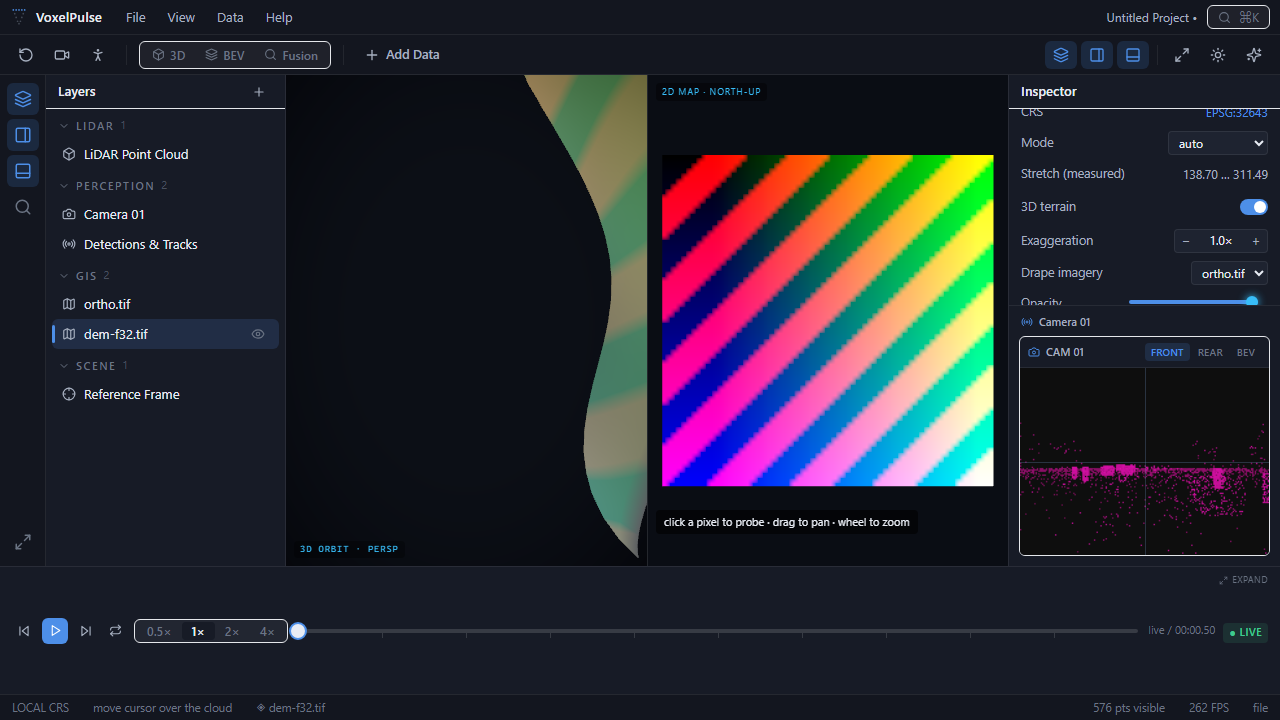
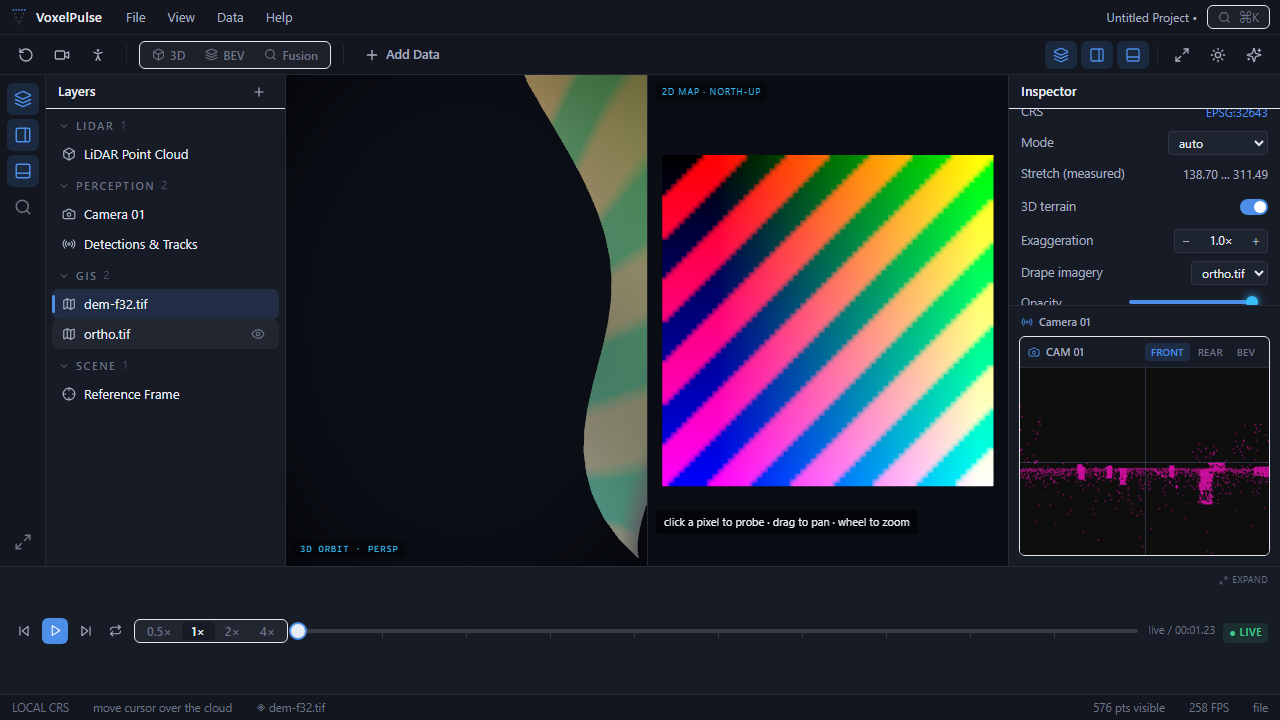
docs(p5): user guide, ADR-0009 addendum, README capability matrix, Phase 5 screenshots
- docs/gis/raster-terrain.md: open GeoTIFF, COG by URL, DEM as terrain,
  orthophoto, terrain+LiDAR, styling, .vxp v4, honest limitations
- ADR-0009 implementation addendum: fromSource-everywhere, verified-COG
  ghost check, measured overviews, pixel-space affine scheduling, +1 seam
  decode, per-vertex drape, metre-spacing hillshade, shared LRU
- README: GeoTIFF/COG + COPC rows now reflect shipped capabilities
- docs/screenshots: the 7 mandatory Phase 5 states at 1280×720
- capture-phase5.mjs + perf-phase5.mjs evidence scripts
- verification: tsc clean · 227/227 unit · build ok · Playwright 35/35
  (workers=1; parallel runs flake one timing test per run on this iGPU —
  each passes in isolation, evidence in the session report)

Changed region(s): [[0.0312, 0.3972, 0.2188, 0.4889], [0.7812, 0.6417, 1.0, 0.7333]]

diff --git a/docs/gis/raster-terrain.md b/docs/gis/raster-terrain.md
@@ -1,0 +1,98 @@
+# GIS rasters & terrain — user guide
+
+Phase 5 adds GeoTIFF/COG rasters, a 2D Map workspace, real DEM terrain,
+scientific hillshade, orthophoto draping and LiDAR fusion to VoxelPulse.
+All geospatial display goes through the Phase 3 CRS pipeline (project CRS,
+render origin, honest UNKNOWN handling).
+
+## Open a GeoTIFF
+
+**Add Data** (or drag-and-drop) accepts `.tif/.tiff` alongside the point
+cloud formats. VoxelPulse detects the format by content (TIFF magic — the
+extension is only a hint), reads metadata through geotiff.js over VoxelPulse's
+own byte-range source, and attaches a streaming raster runtime:
+
+- the **Map workspace** focuses automatically on a fresh import;
+- the raster streams tile-by-tile through the tile scheduler (viewport
+  culling, overview selection by measured texel size, bounded decode cache);
+- the Inspector's **Raster** section shows dimensions, bands, sample type,
+  nodata, compression, layout, overviews, CRS and the measured stretch;
+- the pixel probe reports **world coordinates + raw pixel values** (click in
+  the map; drag pans, wheel zooms — zoom is cursor-anchored).
+
+Supported: classic TIFF + BigTIFF, LE/BE, LZW/Deflate/JPEG(decode)/Packbits/
+Zstd (geotiff.js decoders), strip and tiled layouts, overviews measured from
+the real IFDs. Whole-file decode never happens.
+
+## Open a COG by URL
+
+**File → Open URL…** with an `http(s)` URL to a GeoTIFF/COG. Every byte —
+header, IFDs, tiles — arrives as an HTTP **Range request** through VoxelPulse's
+DataSource accounting (geotiff's own HTTP client is never used). A raster is
+labeled **COG (verified)** in the Inspector only when the file carries the
+GDAL ghost-area signature + tiled layout + overview IFDs; tiled-but-not-COG
+files honestly report "tiled TIFF".
+
+## View a DEM as 3D terrain
+
+Select the raster layer → Inspector → **3D terrain** toggle. The DEM streams
+into the perspective scene as tiled meshes in the SAME render space as point
+clouds (Z-up, shared render origin, CRS-transformed):
+
+- vertices sit at pixel-corner positions through the full affine (rotated
+  rasters stay rotated); neighboring tiles share exact corner samples (the
+  runtime decodes one extra column/row), so there are no seams;
+- nodata becomes a hole — triangles are skipped, never zero-filled;
+- **Exaggeration** scales the mesh visually only — raw elevations are
+  untouched, and the probe/terrain sampler always reads true values.
+
+## Apply an orthophoto
+
+With a terrain-enabled raster selected: Inspector → **Drape imagery** → pick
+another raster layer. Imagery drapes per-vertex through each raster's own
+affine; a different imagery CRS transforms per-vertex through the project's
+proj4 pipeline. If the imagery cannot be placed honestly (UNKNOWN CRS,
+outside the extent, tiles not resident yet) you get a console warning and
+base shading — never guessed offsets.
+
+## Combine terrain and LiDAR
+
+Import a georeferenced point cloud (LAS/COPC) together with a DEM: both
+co-render in the 3D scene in project coordinates. VoxelPulse proves the
+alignment numerically — the Phase 5 acceptance test loads a LiDAR block that
+flies 2.0 m above the DEM surface and asserts the terrain sampler reads the
+DEM formula value exactly at the points' (E, N) (see
+`tests/fusion.e2e.ts`).
+
+## Styling
+
+Inspector → **Mode**: `auto` (RGB for ≥3 bands, grayscale otherwise),
+`rgb` (with band remapping), `grayscale`, `pseudocolor` (perceptual ramp),
+`hillshade` (sun **azimuth**/`elevation` steppers; gradients from real
+elevation data with CRS-aware metre spacing — degree CRSs are converted at
+the raster's mean latitude). Display stretch uses **measured** dataset
+statistics from the file's coarsest overview — the Inspector shows the real
+numbers. Raw pixel values are never quantized into the analysis path; only
+the display buffer is packed.
+
+## Projects (.vxp v4)
+
+Save/open persists raster descriptors, source references, display style
+(mode, sun, band mapping), terrain role, drape reference, exaggeration, map
+layout and project CRS — references only, never tiles or meshes. Local files
+re-open via the relink flow; remote rasters re-open through source-backed
+streaming. v1–v3 projects migrate losslessly.
+
+## Known limitations (honest)
+
+- Elevation units are taken as the raster's horizontal CRS units (metre
+  CRSs → metre elevations); there is no vertical-datum transformation.
+- Draping samples imagery at terrain-vertex resolution (mesh grid ≤ 33 per
+  side) — appropriate for the current renderer, not full ortho sharpness.
+- The 2D Map assumes the project space == raster CRS for aligned imports
+  (Phase 3 reprojected-display covers point clouds; raster reprojection on
+  import lands with future work — cross-CRS *draping* is supported).
+- Hillshade edge pixels replicate-clamp neighbors (standard behavior);
+  the outermost pixel ring of a tile uses clamped samples.
+- geotiff.js's own HTTP client is bypassed (ADR-0009); blocked-slice
+  coalescing still applies through its BlockedSource.

diff --git a/docs/adr/0009-raster-terrain-architecture.md b/docs/adr/0009-raster-terrain-architecture.md
@@ -69,6 +69,41 @@ WorkerPool for heavy paths.
 - WebGL2 + iGPU target unchanged; no Cesium, no WebGPU, no basemap
   dependencies (§58–60, §24).
 
+## Implementation addendum (Phase 5 delivery)
+
+Decisions that crystallized while building it (CP4–CP10):
+
+- **One source-backed handle everywhere.** Both metadata inspection and the
+  streaming runtime construct `GeoTIFF.fromSource(new VpGeoTIFFSource(...))`
+  over the VoxelPulse DataSource — no `fromArrayBuffer` header windows, no
+  geotiff HTTP client. geotiff.js v3 defers geo tags, so georeferencing comes
+  from our own raw IFD reader over a bounded header window with the deferred
+  fileDirectory arrays as fallback; rotation survives (v3 would flatten
+  ModelTransformation).
+- **COG labeling is verified, not assumed.** `cloudOptimized` requires the
+  GDAL ghost-area signature (`GDAL_STRUCTURAL_METADATA`) + tiled layout +
+  overview IFDs; tiled-but-unverified files report "tiled TIFF".
+- **Overview truth comes from the IFDs.** Factors are measured
+  (`full.width / ov.width`) and the runtime maps factor → image index by
+  dimension match — never `log2`, and the factor is never applied twice.
+- **Scheduling is pixel-space through the affine.** Tiles carry world quads
+  (pixel-corner → affine), so rotated rasters render rotated; AABBs are
+  conservative culling bounds.
+- **Terrain seams are eliminated structurally.** The runtime decodes one
+  extra right/bottom column/row per tile so neighboring tiles sample the
+  SAME source pixel at shared corners; the 2D display crops the texture to
+  the exact tile size via a stride-aware packing.
+- **Draping is per-vertex through each raster's own affine** (cross-CRS via
+  the cached proj4 pipeline); unplaceable imagery keeps base shading with a
+  console warning rather than guessed offsets. Sampling happens at
+  terrain-vertex resolution — a documented renderer limitation.
+- **Hillshade uses Horn gradients with metre spacing**: degree CRSs convert
+  at the raster's mean latitude (never "degrees are metres"); the aspect
+  convention flips the south-running raster row axis to compass north-up.
+- **The raster runtime owns one LRU per dataset shared by the 2D map and
+  the 3D terrain** (same tile cache, same budget, both renderers drive the
+  same scheduler from their own viewports).
+
 ## References
 
 - OGC COG spec — docs.ogc.org/is/21-026/21-026.html

diff --git a/README.md b/README.md
@@ -83,7 +83,9 @@ Import runs through the spatial data engine (Source → FormatAdapter → Datase
 | XYZ / TXT / PTS | ✓ adapter | point count, bounds, intensity column | Conservative: must parse as a coordinate table |
 | VPF1 live stream | ✓ temporal | session stats | Separate temporal path — not forced through file adapters |
 | LAZ | — | — | Roadmap (massive-data phase, with decompression limits) |
-| COPC / GeoTIFF / vector | — | — | Roadmap (GIS phases) — architecture prepared, nothing claimed |
+| COPC | ✓ streaming | header/VLR/hierarchy ranges | Cloud Optimized Point Cloud — octree nodes stream via HTTP ranges (Phase 4) |
+| GeoTIFF / COG | ✓ streaming | header-window + ranged IFD reads | Classic TIFF + BigTIFF, LZW/Deflate/JPEG(decode)/Packbits/Zstd; COG range-streaming; 2D Map, terrain, hillshade, draping (Phase 5) |
+| Vector (Shapefile/GeoJSON) | — | — | Roadmap — not claimed |
 | Export: PLY / PCD / PNG / .vxp | ✓ | — | Stable |
 
 ## Architecture
@@ -125,9 +127,9 @@ Source ─▶ FormatAdapter ─▶ Dataset ─▶ Chunk/Resource ─▶ Worker P
 ## Roadmap
 
 - **v4 Spatial Workstation** — ✅ shell, layers, projects, palette · ✅ spatial data engine · ✅ geospatial coordinate foundation (CRS, floating origin) · ⏳ cross-sections, measurement polish
-- **v5 GIS Foundation** — vector layers, attribute table, map workspace, reprojection export
-- **v6 Massive Data** — chunked LOD streaming, LAZ/COPC, tens-of-millions+ points
-- **v7 Analysis Platform** — ground classification, DEM, clustering, jobs backend
+- **v5 GIS Raster & Terrain (Phase 5)** — ✅ GeoTIFF/COG streaming, 2D Map workspace, DEM terrain, hillshade, orthophoto draping, LiDAR fusion ([guide](docs/gis/raster-terrain.md))
+- **v6 Massive Data** — ✅ COPC octree streaming shipped (Phase 4); remaining: LAZ-file import, tens-of-millions+ stress polish
+- **v7 Analysis Platform** — vector layers, attribute table, ground classification, clustering, jobs backend
 - **v8 Extensible Spatial OS** — plugin SDK, desktop shell (Tauri), scripting
 
 ## Contributing
